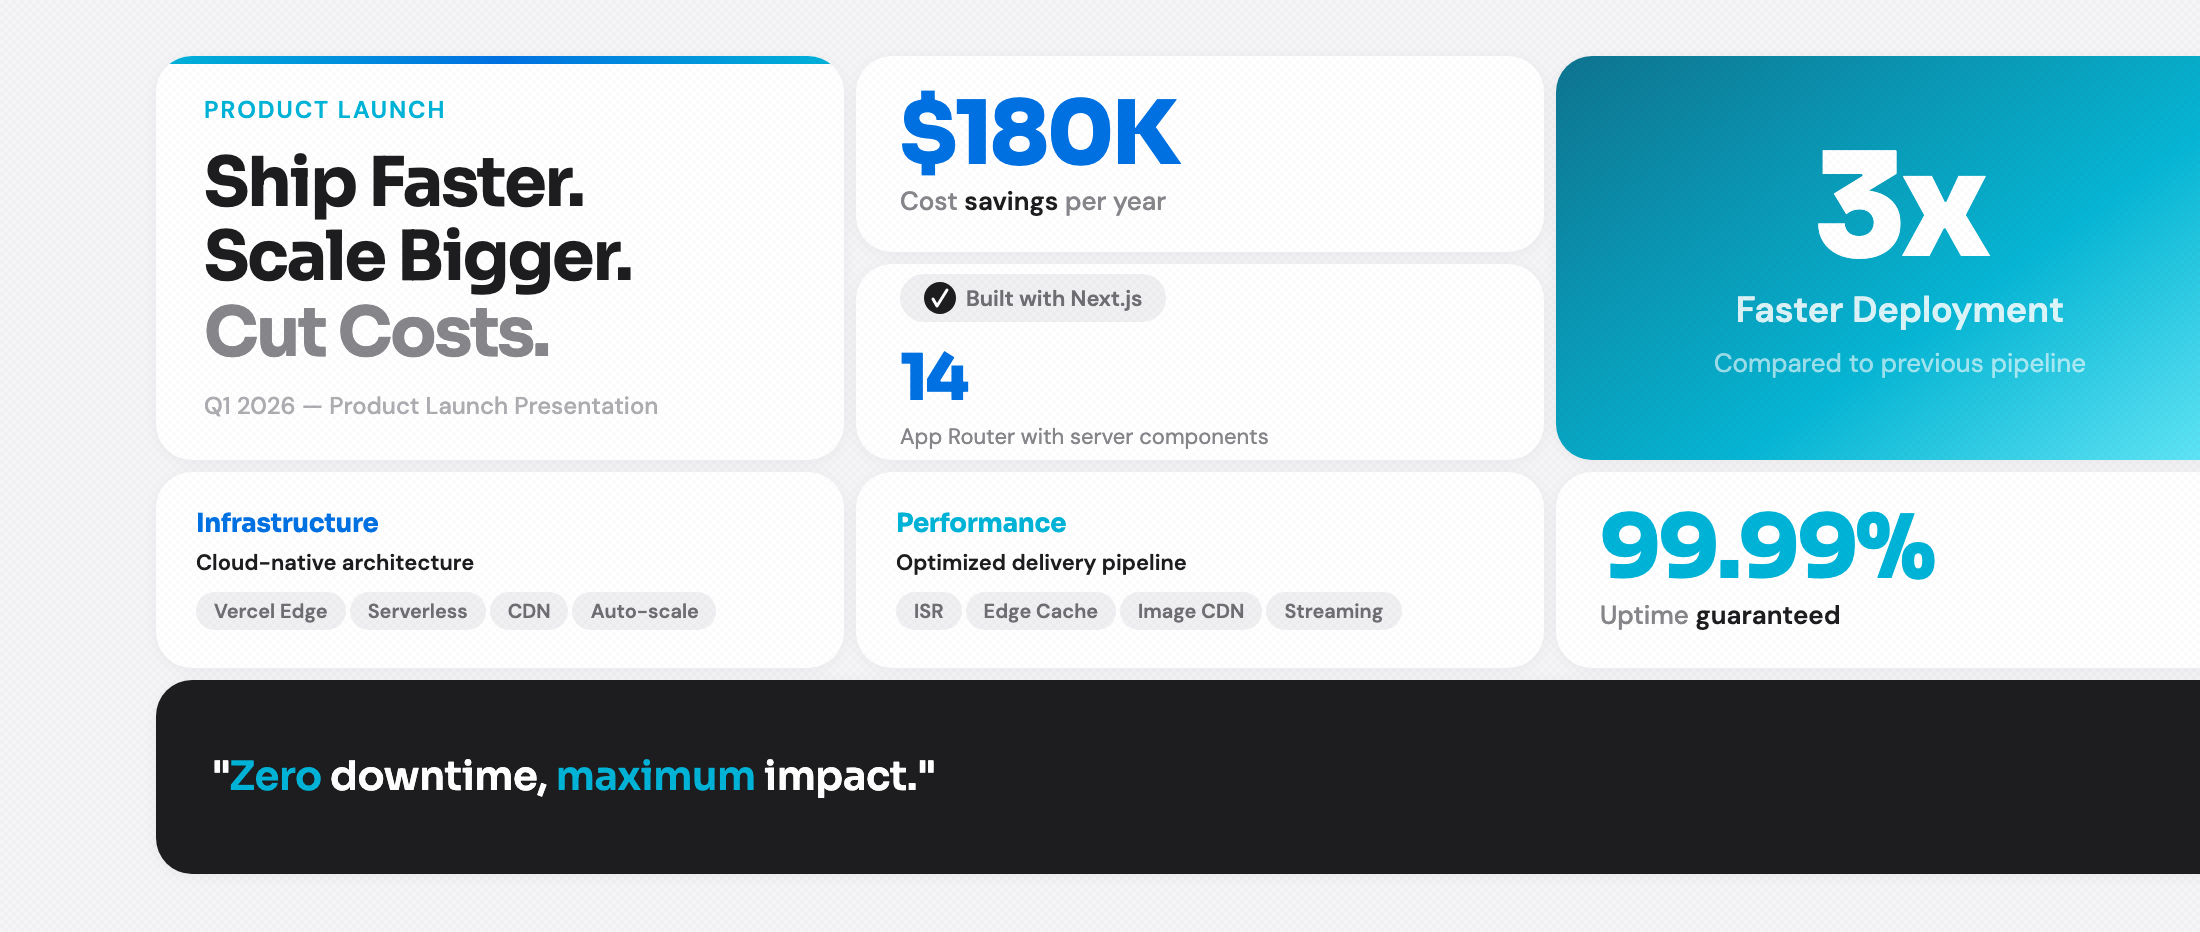
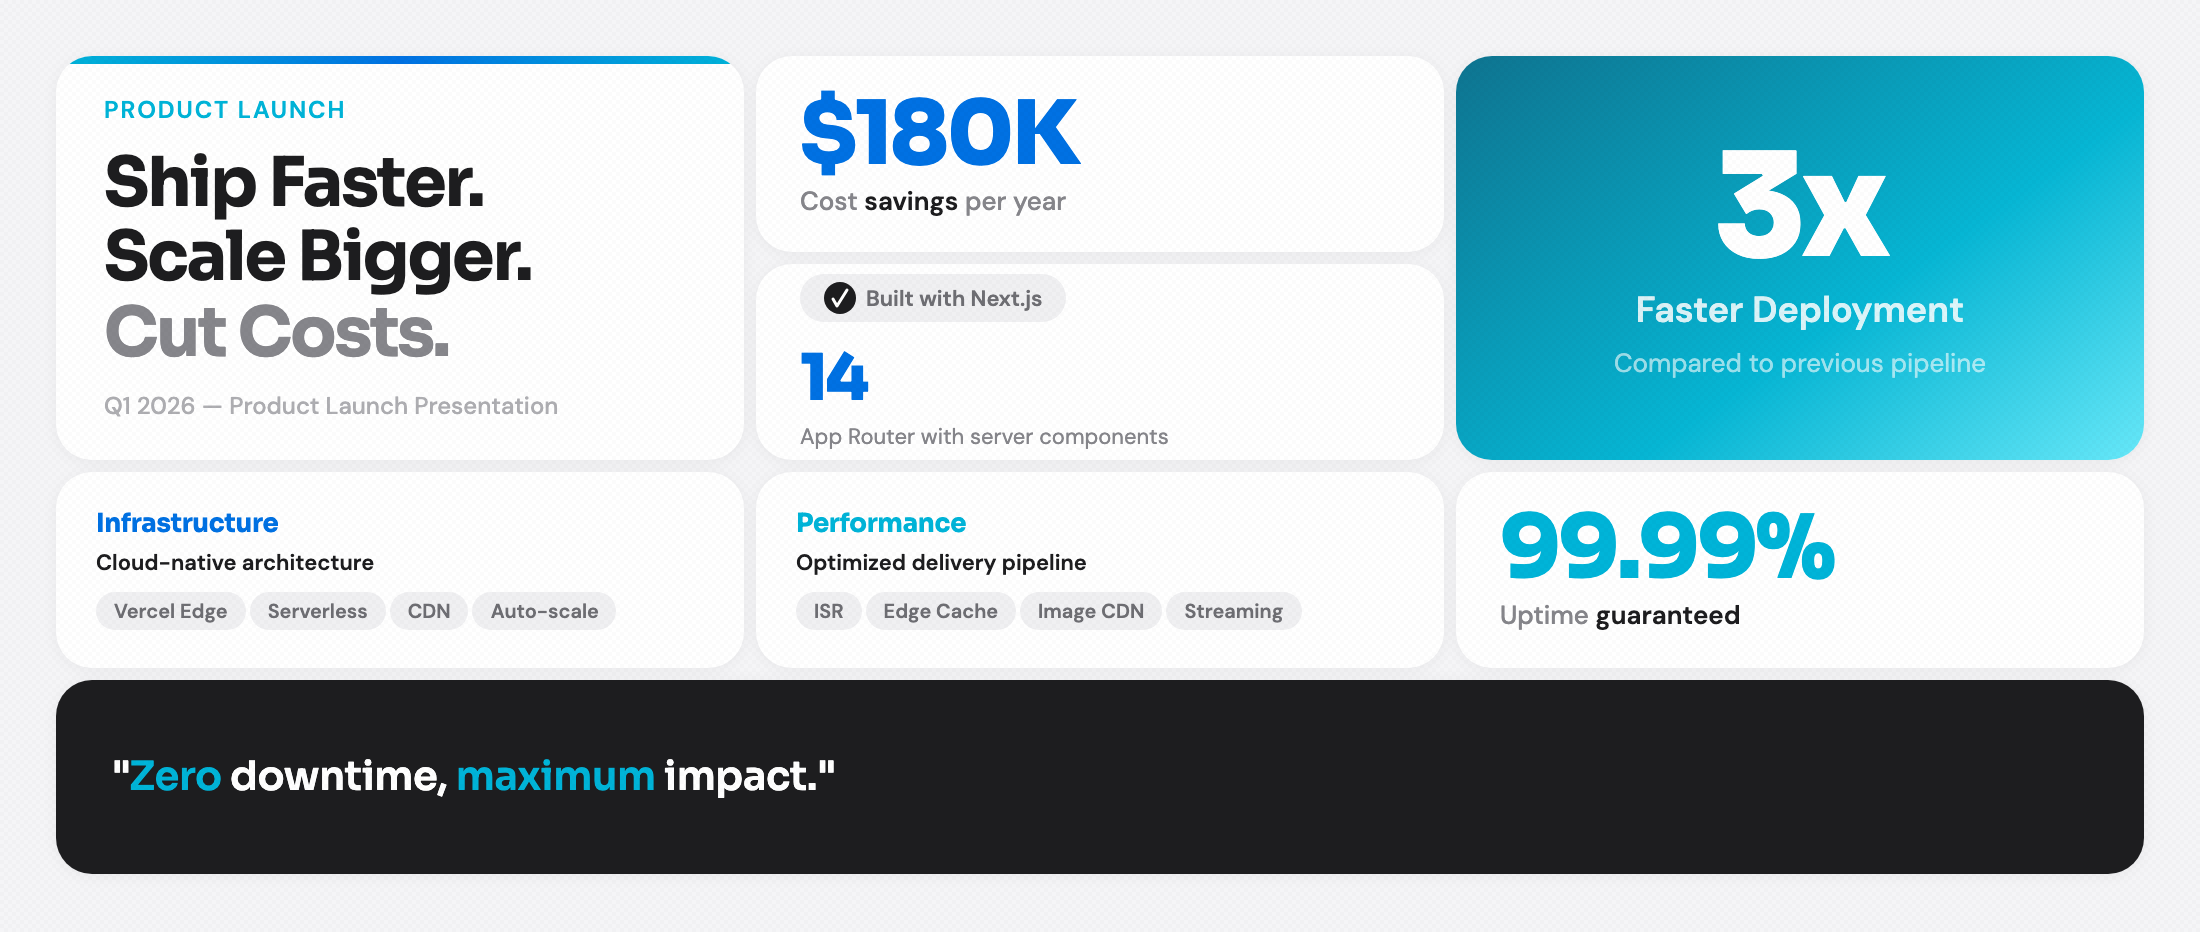
fix: screenshot clipping on centered grids
Fix light-horizontal.png right edge cutoff caused by viewport/grid
width mismatch and clip starting at x:0 instead of grid position.
Add screenshot clipping detection to SKILL.md visual review checklist.

diff --git a/SKILL.md b/SKILL.md
@@ -58,6 +58,8 @@ After generating the HTML, always view the output to catch visual issues before 
 
 **Font fallback** — Text rendering in system fonts instead of Sora/DM Sans. Ensure Google Fonts link is present and page has network access.
 
+**Screenshot clipping** — Right or bottom edges of cards cut off in the exported PNG. Fix by ensuring viewport width matches the grid CSS width exactly and the clip uses `box.x`/`box.y` from `boundingBox()`, not `x: 0, y: 0`.
+
 If any issues are found, fix the HTML and re-check. Do not present to the user until the output passes visual review.
 
 ## Theme Selection
@@ -126,6 +128,12 @@ node screenshot.mjs
 ```
 
 Edit the `pages` array in `screenshot.mjs` to point to your HTML files. Each entry needs: `file` (HTML path), `output` (PNG path), `viewportWidth` (match grid width).
+
+**Critical: Viewport must match grid width.** If the viewport is wider than the grid, the grid gets centered and the clip can cut off the right edge. Always set `viewportWidth` to the exact grid CSS width (1200 for 4-col, 1100 for 3-col, 600 for 2-col).
+
+**Critical: Clip must use element position.** When clipping to the grid element, use `box.x` and `box.y` from `boundingBox()`, not `x: 0, y: 0`. If the grid is centered in a wider viewport, `x: 0` will start the clip before the grid and cut off the right side.
+
+**After screenshotting, always view the output image** to verify no edges are clipped. Check that the rightmost and bottommost cards are fully visible with their border-radius intact.
 
 ## Logos & Images
 
